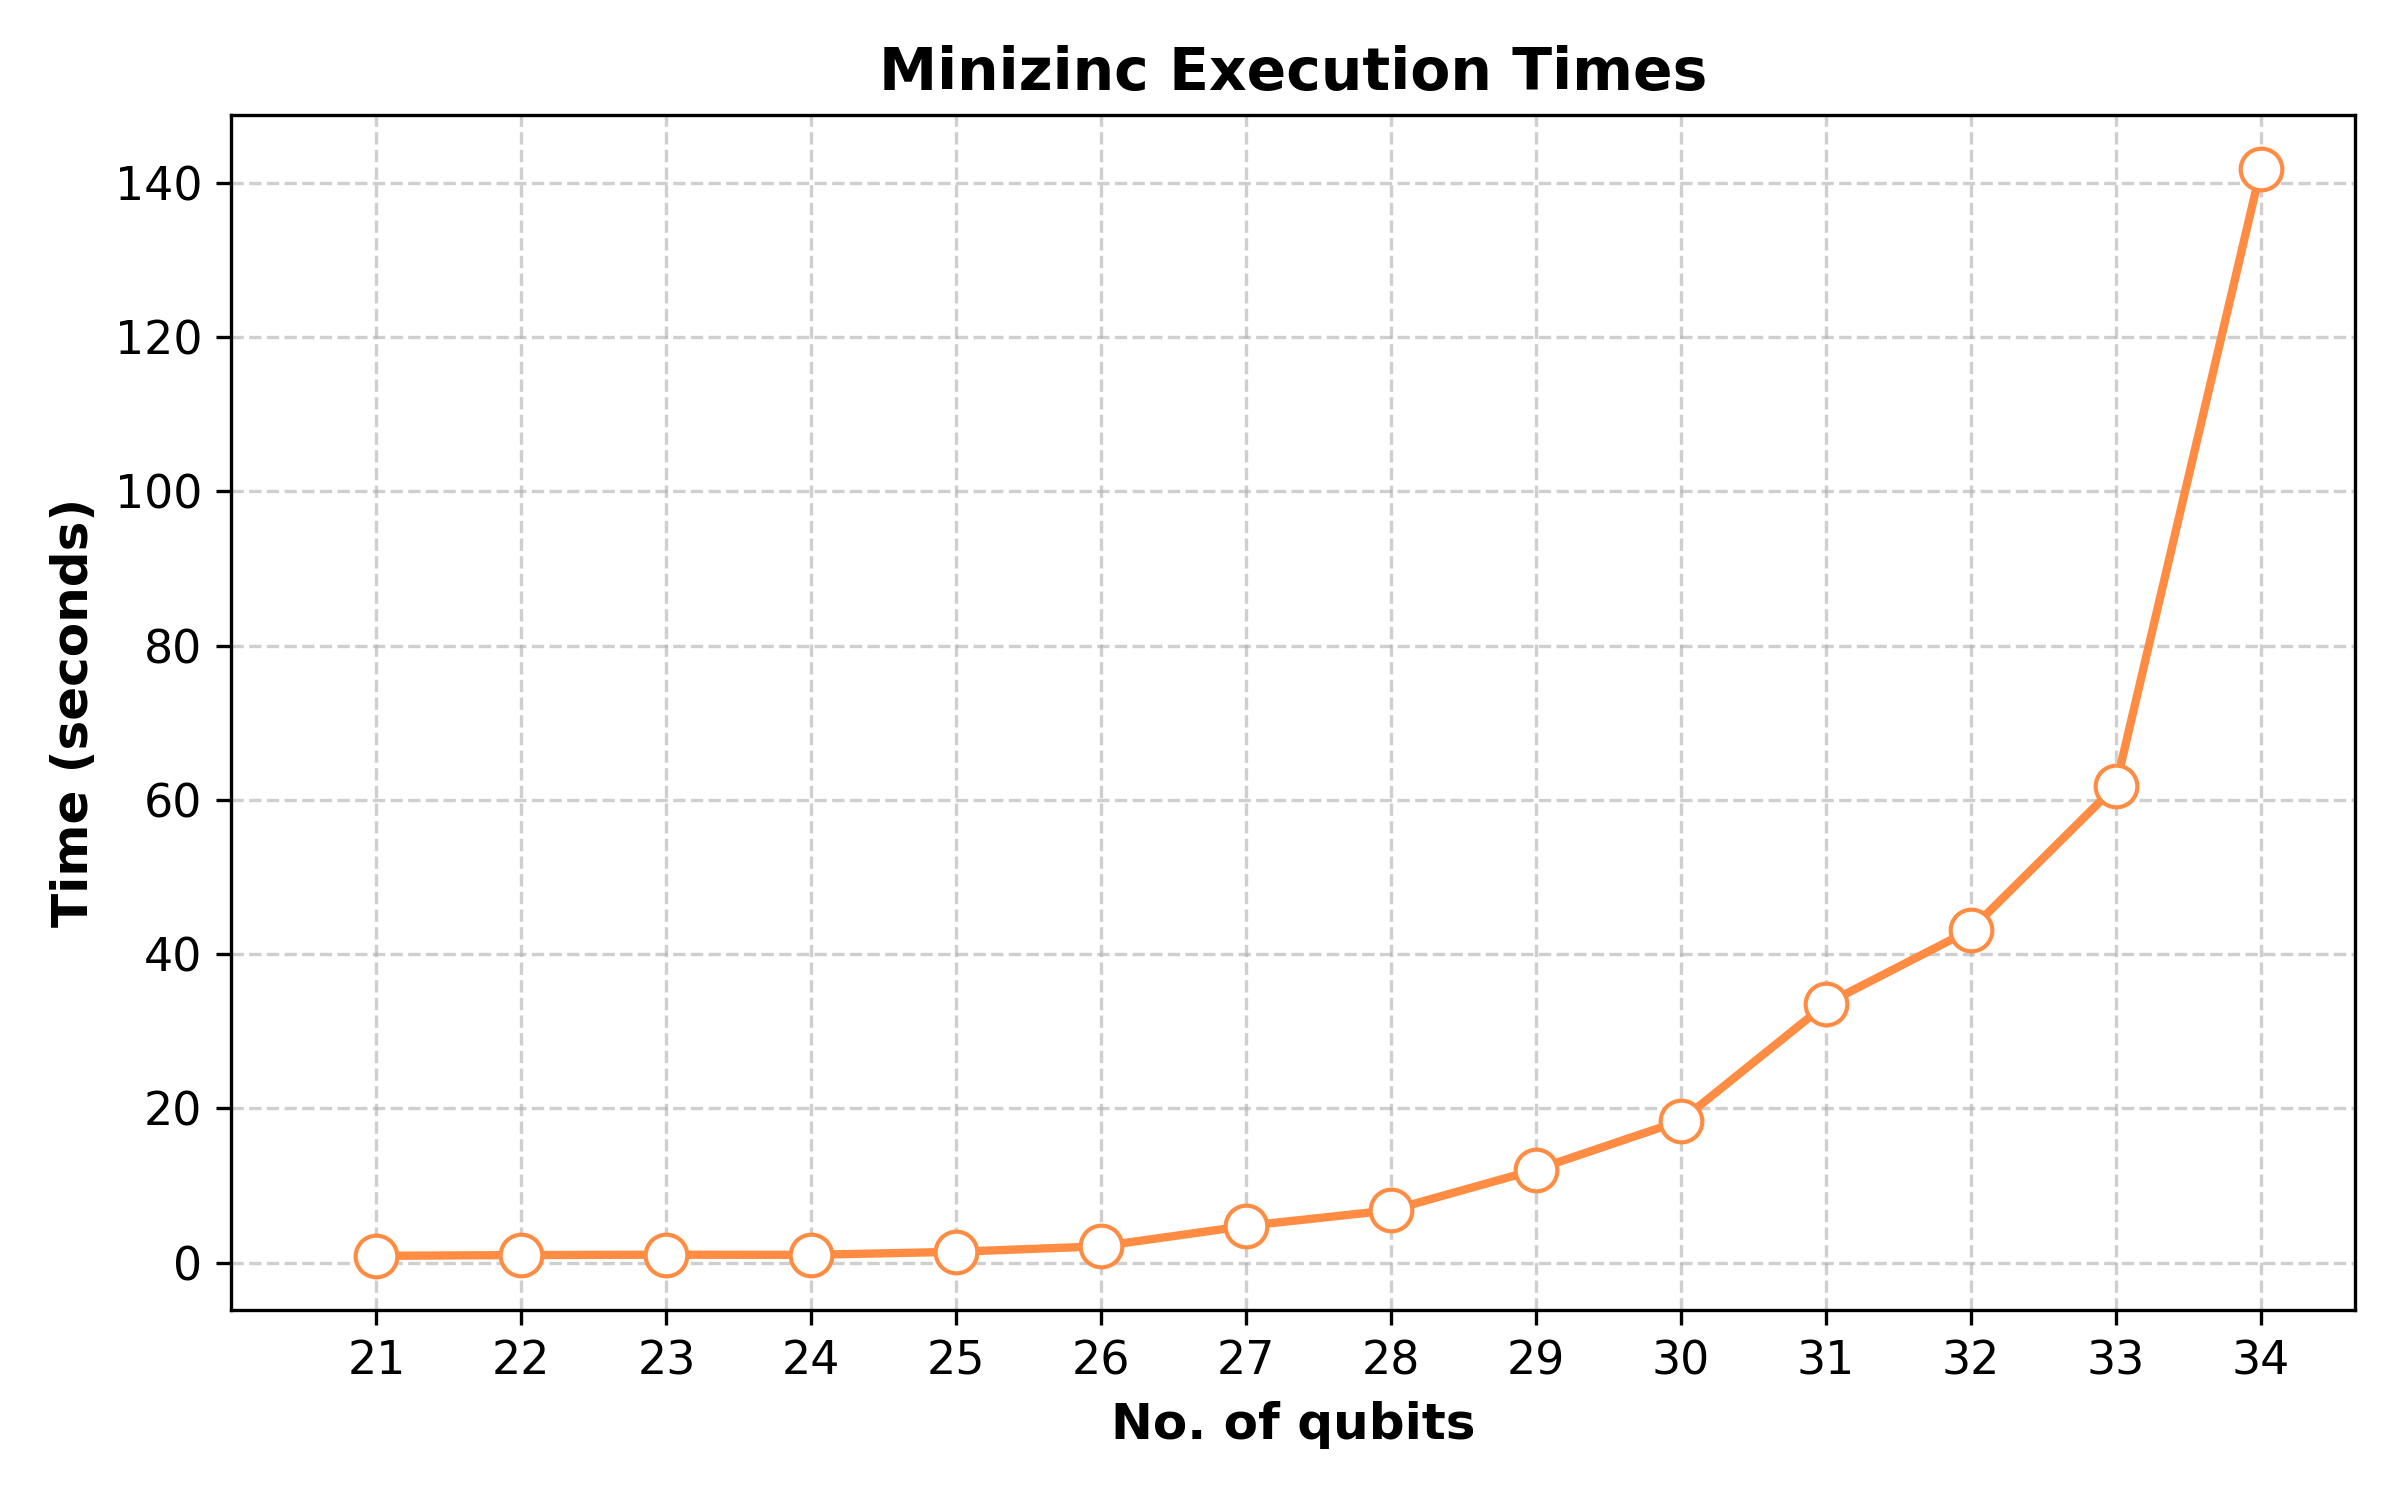
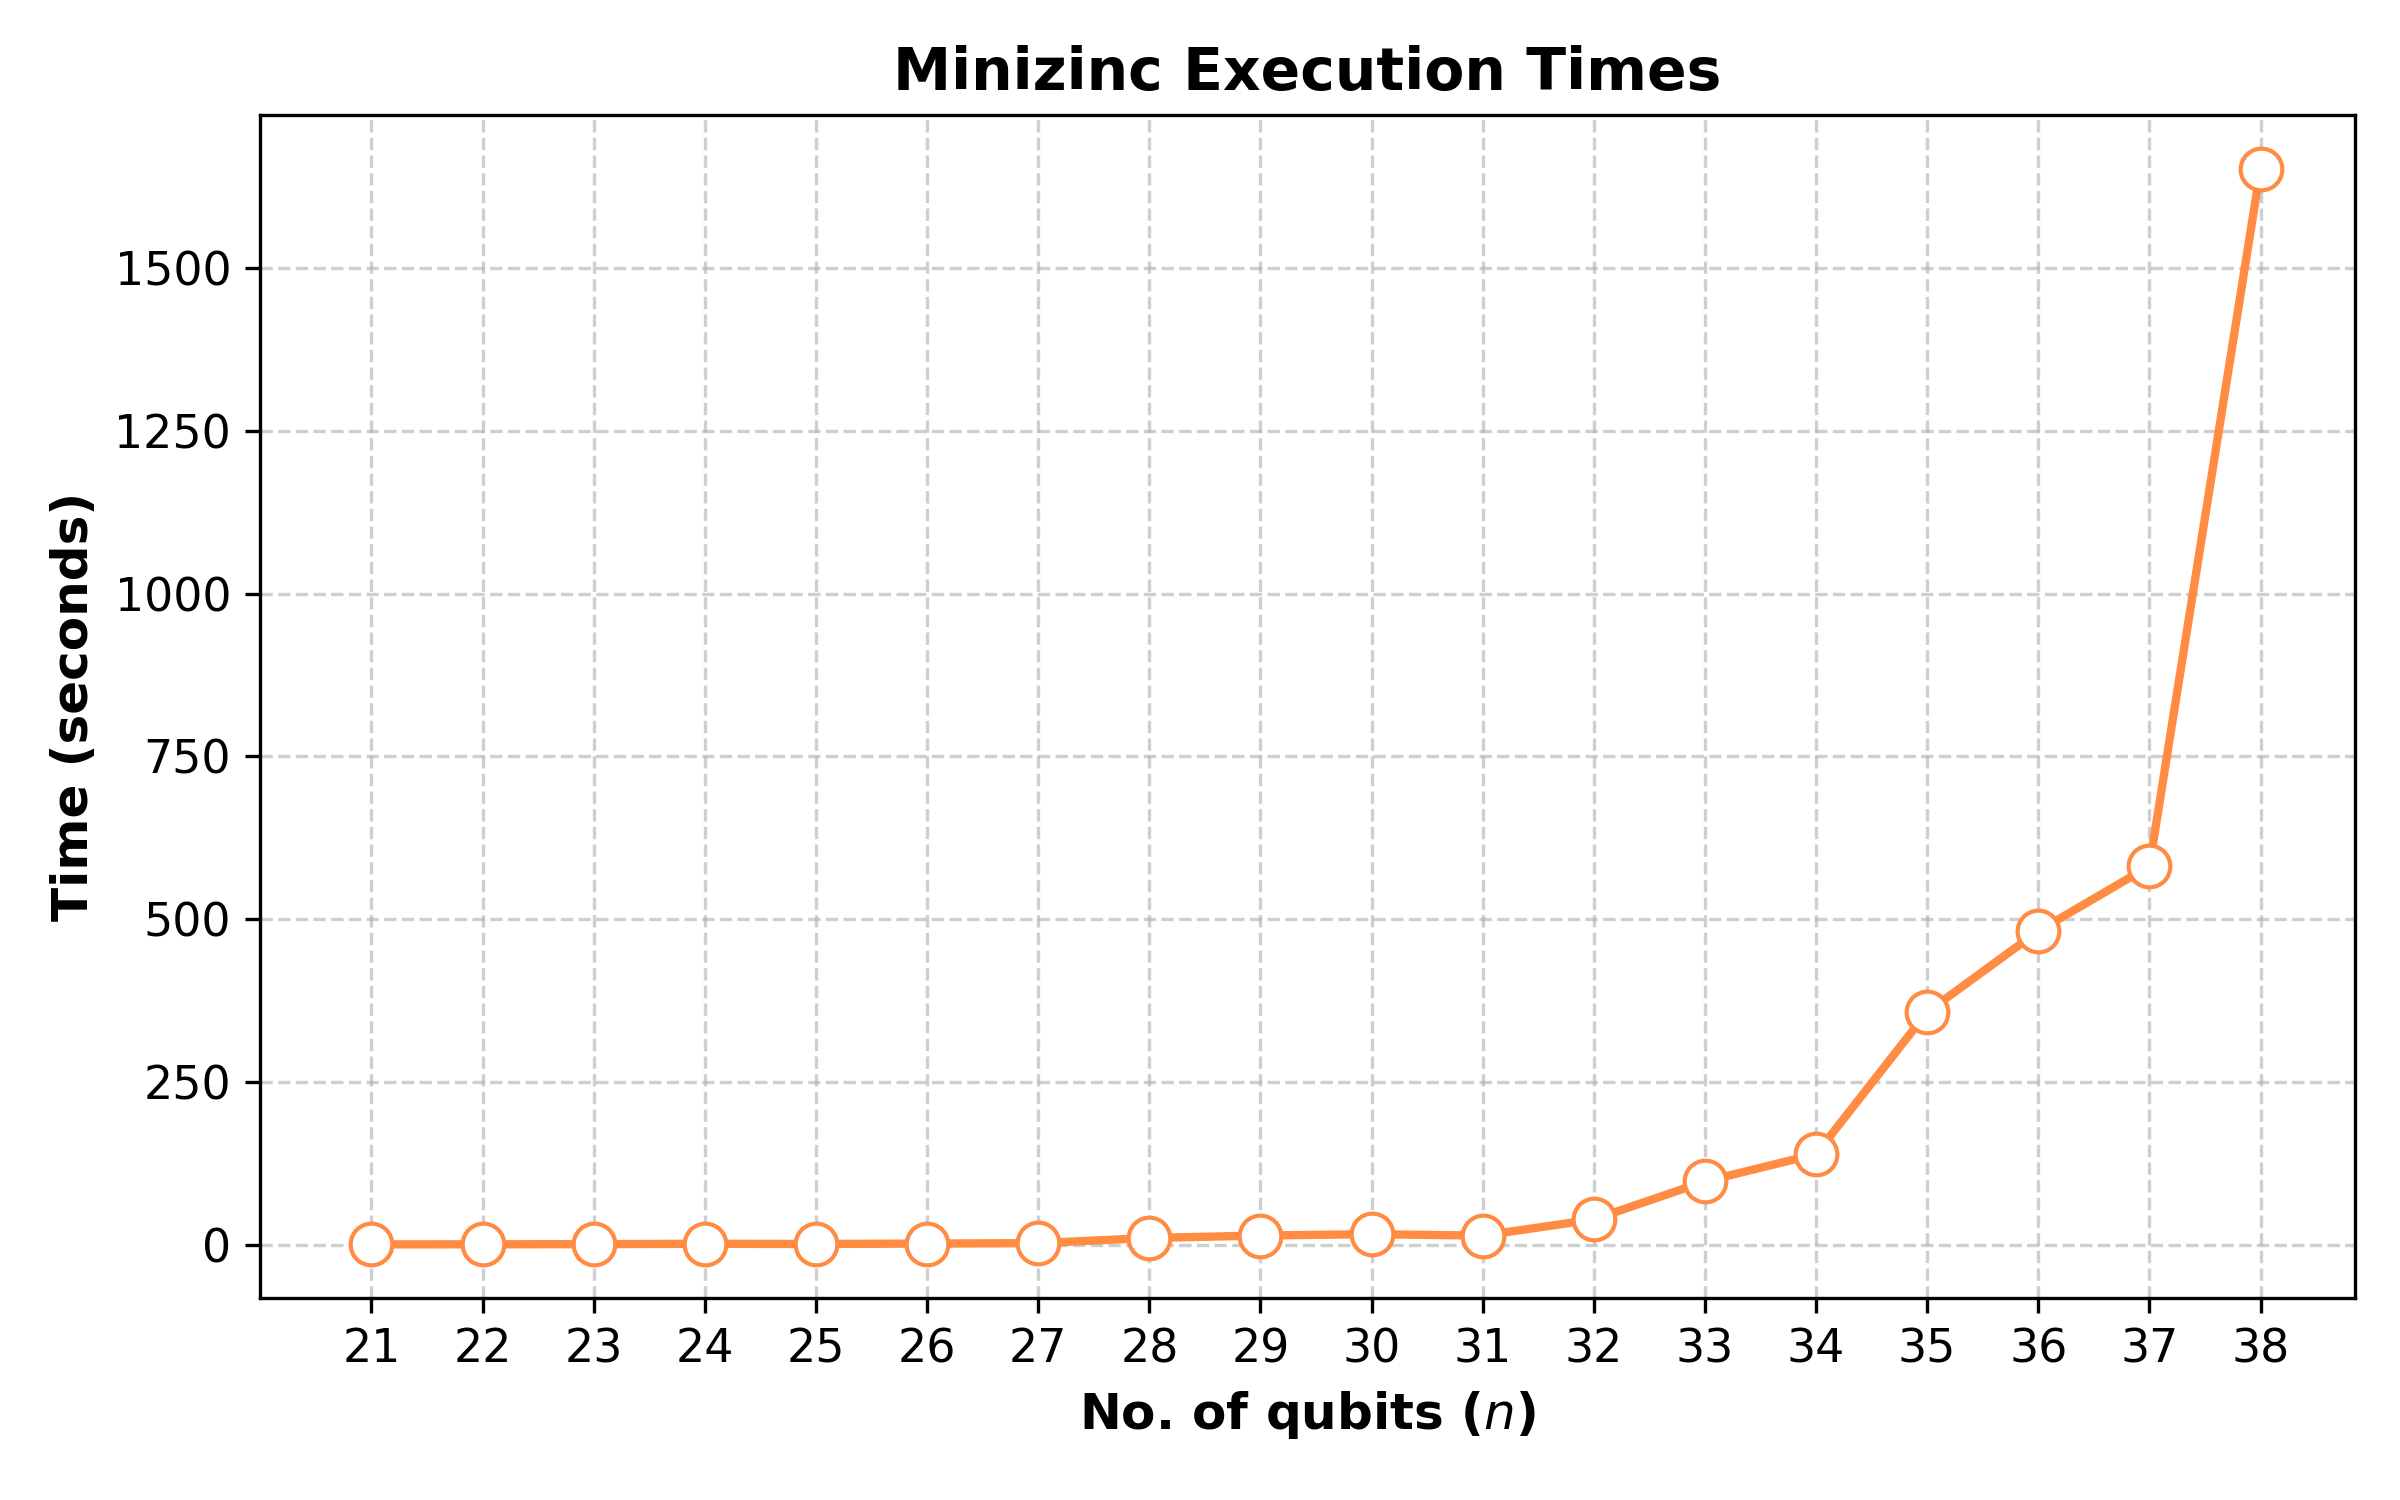
distance_plot

diff --git a/benchmarks/plot_distance.py b/benchmarks/plot_distance.py
@@ -1,0 +1,50 @@
+import matplotlib.pyplot as plt
+
+x_values = []
+times = []
+with open("mzn_times2") as f:
+    for l in f.readlines():
+        parts = l.strip().split(',')
+        if len(parts) == 2:
+            x_values.append(int(parts[0]))   
+            times.append(float(parts[1]))   
+
+# x_values = [x + 5 for x in range(len(times))]
+
+
+target_ticks = [x for x in x_values if x > 20]
+filtered_x = []
+filtered_times = []
+
+for x, t in zip(x_values, times):
+    if x in target_ticks:
+        filtered_x.append(x)
+        filtered_times.append(t)
+
+plt.figure(figsize=(8, 5)) # Set a good figure size
+
+plt.plot(filtered_x, filtered_times, 
+         marker='o',           
+         markersize=10,
+         linestyle='-',        
+         linewidth=2,          
+         color='#ff8c42',     
+         markeredgecolor='#ff8c42',
+         markerfacecolor="white",
+         zorder=3)
+# 5. Set the x-ticks to strictly 10, 20, 30
+plt.xticks(target_ticks, fontsize=11)
+plt.yticks(fontsize=11)
+
+plt.xlim(left=20)
+# 6. Add grid, labels, and title
+plt.grid(True, linestyle='--', alpha=0.6, zorder=0) # Zorder 0 keeps the grid behind the points
+plt.xlabel("No. of qubits ($n$)", fontsize=12, fontweight='bold')
+plt.ylabel("Time (seconds)", fontsize=12, fontweight='bold')
+plt.title("Minizinc Execution Times", fontsize=14, fontweight='bold')
+
+# Save or display the plot
+plt.tight_layout() # Ensures nothing gets cut off
+# plt.show()
+plt.savefig("polished_plot.png", dpi=300)
+# plt.show() # Uncomment if you are running this in an interactive environment

diff --git a/benchmarks/test_distance.py b/benchmarks/test_distance.py
@@ -2,32 +2,37 @@ import stim
 from ugr import *
 import time
 from tqdm import tqdm
+import logging
+
+logging.basicConfig(
+    filename='minizinc_progress.log',
+    level=logging.INFO,
+    format='%(asctime)s - n=%(message)s'
+)
+
+
 
 k = 5
-
-num = 40
-
+num = 39
 iterations = 3
 
-times = []
 with open("./mzn_times2", 'w') as f:
-
-    for n in tqdm(range(6,num,2), desc=f"test"):
-        sum = 0
+    for n in tqdm(range(6, num, 1), desc="Testing MiniZinc"):
+        total_time = 0
         for i in range(iterations):
             tableau = stim.Tableau.random(n)
             stabilizers = [str(s) for s in tableau.to_stabilizers()]
             ugr = stabilizers_to_UGR(stabilizers[0:n-k])
-            model = to_distance_mzn(ugr.inputs, ugr.adj)
 
             start = time.perf_counter()
-            a = compute_distance(ugr.inputs, ugr.adj) 
-            end =time.perf_counter()
+            a = compute_distance(ugr.inputs, ugr.adj)
+            end = time.perf_counter()
 
-            sum += (end-start)
-        t = sum / iterations
-        f.write(f"{t}\n")
+            total_time += (end - start)
 
+        avg_time = total_time / iterations
 
+        f.write(f"{n}, {avg_time}\n")
+        f.flush()
 
-
+        logging.info(f"{n} | Avg Time: {avg_time:.4f}s")
